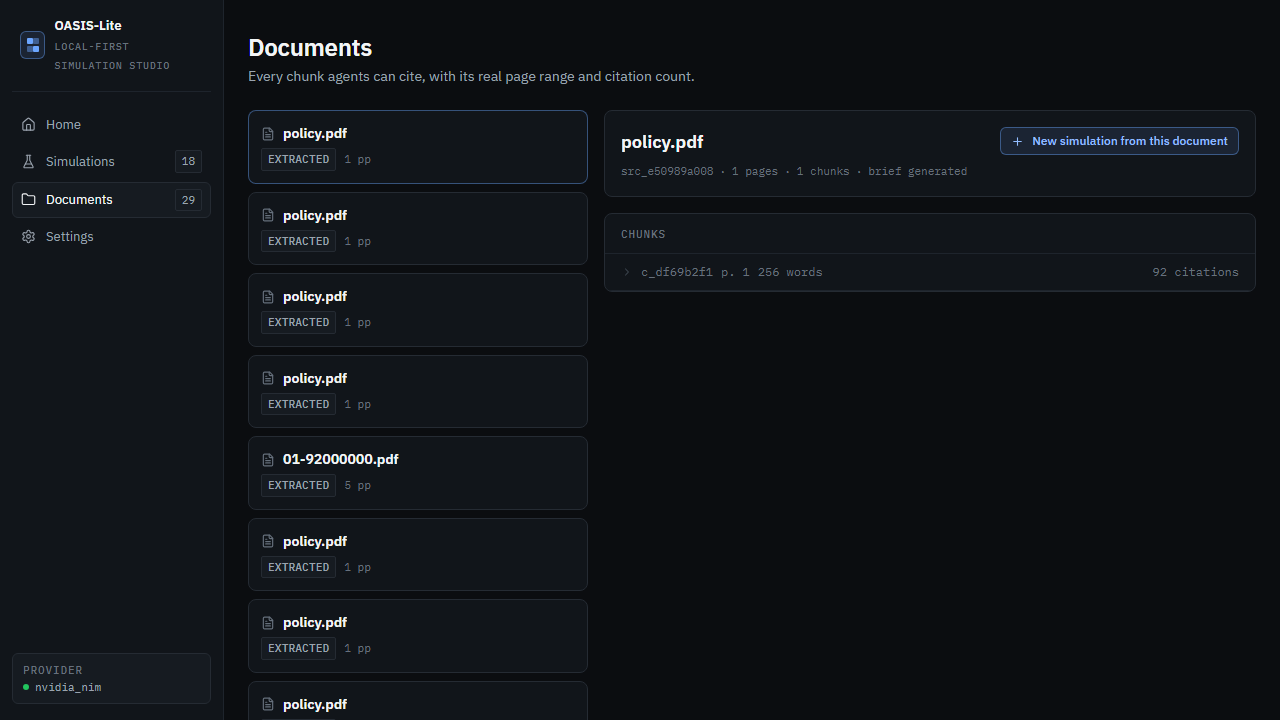
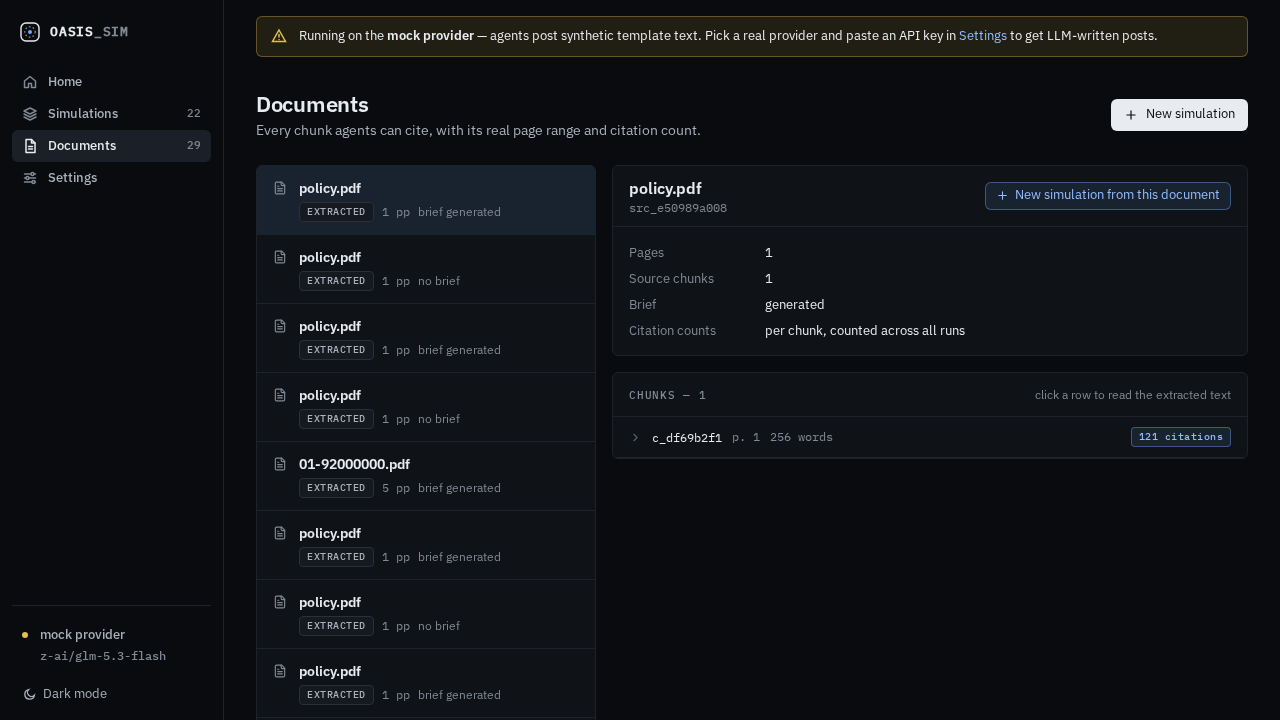
QA: refresh final screenshots, add capture tool, ignore build artifacts
- Add tools/qa_shots.py: Playwright capture of every core page at the four
  mandated viewports, using the live API for a running mock run and the
  richest completed run for the run-room tabs.
- Refresh docs/screenshots/final for the current tab set (Live / Agents /
  Network / Events / Analysis / Log) and all viewports.
- Stop tracking tsconfig.tsbuildinfo and ignore *.orig backups.

diff --git a/tools/qa_shots.py b/tools/qa_shots.py
@@ -1,0 +1,146 @@
+"""QA screenshots for OASIS_SIM — every core page at the mandated viewports.
+
+Usage:
+  python tools/qa_shots.py [base_url] [out_dir]
+
+Runs against a live server (http://127.0.0.1:8000 by default). It creates a fresh
+mock run for the Live/RUNNING captures and uses the most-populated completed run
+for Agents / Network / Events / Analysis / Log. Writes PNGs to docs/screenshots/final/.
+"""
+import json
+import sys
+import time
+import urllib.request
+from pathlib import Path
+
+from playwright.sync_api import sync_playwright
+
+BASE = sys.argv[1] if len(sys.argv) > 1 else "http://127.0.0.1:8000"
+OUT = Path(sys.argv[2] if len(sys.argv) > 2 else "docs/screenshots/final")
+SIZES = [(1440, 900), (1280, 720), (1920, 1080), (390, 844)]
+
+
+def api(path: str, data=None, method: str | None = None):
+    req = urllib.request.Request(BASE + path, method=method or ("POST" if data is not None else "GET"))
+    body = None
+    if data is not None:
+        body = json.dumps(data).encode()
+        req.add_header("Content-Type", "application/json")
+    with urllib.request.urlopen(req, body, timeout=60) as r:
+        return json.loads(r.read().decode())
+
+
+def wait_health(timeout=30):
+    for _ in range(timeout * 2):
+        try:
+            api("/api/health")
+            return True
+        except Exception:
+            time.sleep(0.5)
+    return False
+
+
+def main() -> None:
+    OUT.mkdir(parents=True, exist_ok=True)
+    assert wait_health(), "server did not come up"
+
+    # --- a fresh mock run for the RUNNING captures --------------------------
+    src_id = None
+    try:
+        sources = api("/api/sources")["sources"]
+        for s in sources:
+            sid = s.get("source_id") or s.get("id")
+            try:
+                if api(f"/api/sources/{sid}/chunks")["count"] > 0:
+                    src_id = sid
+                    break
+            except Exception:
+                continue
+    except Exception:
+        pass
+    print("live run source:", src_id)
+
+    live_id = None
+    try:
+        run = api("/api/runs", {
+            "source_id": src_id,
+            "name": "QA capture — live (mock)",
+            "config": {"agents": 8, "ticks": 8, "writes_per_tick": 4, "seed": 7},
+            "scenario_json": {"question": "QA capture run", "events": []},
+        })
+        live_id = run["id"]
+        api(f"/api/runs/{live_id}/start", {}, method="POST")
+    except Exception as e:
+        print("could not create live run:", e)
+
+    # --- pick a completed run rich in real citations for the other tabs -----
+    done_id = None
+    best = -1
+    candidates = [r for r in api("/api/runs")["runs"] if r["status"] in ("completed", "interrupted")]
+    candidates.sort(key=lambda r: r["ticks_done"], reverse=True)
+    for r in candidates[:4]:
+        try:
+            posts = api(f"/api/runs/{r['id']}/posts?limit=500")["posts"]
+            cited = sum(1 for p in posts if p.get("cited_chunk_ids"))
+            if cited > best:
+                best = cited
+                done_id = r["id"]
+        except Exception:
+            continue
+    if done_id is None and candidates:
+        done_id = candidates[0]["id"]
+    if done_id is None:
+        done_id = live_id
+    print(f"completed run for tabs: {done_id} ({best} cited posts)")
+
+    time.sleep(10)  # let the mock run produce a few ticks
+
+    def shot(page, w, name, url, wait=900, full=False, tab=None, click=None, graph_wait=0):
+        page.goto(url, wait_until="load", timeout=30000)
+        page.wait_for_timeout(wait)
+        if tab:
+            page.click(f".tabs button:has-text('{tab}')")
+            page.wait_for_timeout(wait)
+        if graph_wait:
+            page.wait_for_timeout(graph_wait)
+        if click:
+            try:
+                page.wait_for_timeout(1200)  # let posts + chunk metadata settle
+                page.click(click, timeout=8000)
+                page.wait_for_timeout(900)
+            except Exception as e:
+                print(f"  click {click} failed: {e}")
+        page.screenshot(path=str(OUT / f"final_{w}_{name}.png"), full_page=full)
+        print(f"wrote final_{w}_{name}.png")
+
+    with sync_playwright() as pw:
+        browser = pw.chromium.launch()
+        for (w, h) in SIZES:
+            ctx = browser.new_context(viewport={"width": w, "height": h}, device_scale_factor=1)
+            page = ctx.new_page()
+            page.on("console", lambda m: m.type == "error" and print("  console error:", m.text[:200]))
+            print(f"--- viewport {w}x{h}")
+            shot(page, w, "home", f"{BASE}/#/")
+            shot(page, w, "wizard", f"{BASE}/#/new")
+            if live_id:
+                shot(page, w, "run_live", f"{BASE}/#/run/{live_id}")
+            shot(page, w, "simulations", f"{BASE}/#/simulations")
+            shot(page, w, "documents", f"{BASE}/#/documents")
+            shot(page, w, "settings", f"{BASE}/#/settings")
+            if done_id:
+                shot(page, w, "run_agents", f"{BASE}/#/run/{done_id}", tab="Agents")
+                shot(page, w, "run_network", f"{BASE}/#/run/{done_id}", tab="Network", graph_wait=2500)
+                shot(page, w, "run_events", f"{BASE}/#/run/{done_id}", tab="Events")
+                shot(page, w, "run_analysis", f"{BASE}/#/run/{done_id}", tab="Analysis", graph_wait=1500)
+                shot(page, w, "run_log", f"{BASE}/#/run/{done_id}", tab="Log")
+            if w == 1440 and done_id:
+                shot(page, w, "run_evidence", f"{BASE}/#/run/{done_id}", tab="Live", click=".post .cite")
+            if w == 390:
+                shot(page, w, "run_live_full", f"{BASE}/#/run/{done_id}", full=True)
+            ctx.close()
+        browser.close()
+    print("done")
+
+
+if __name__ == "__main__":
+    main()
